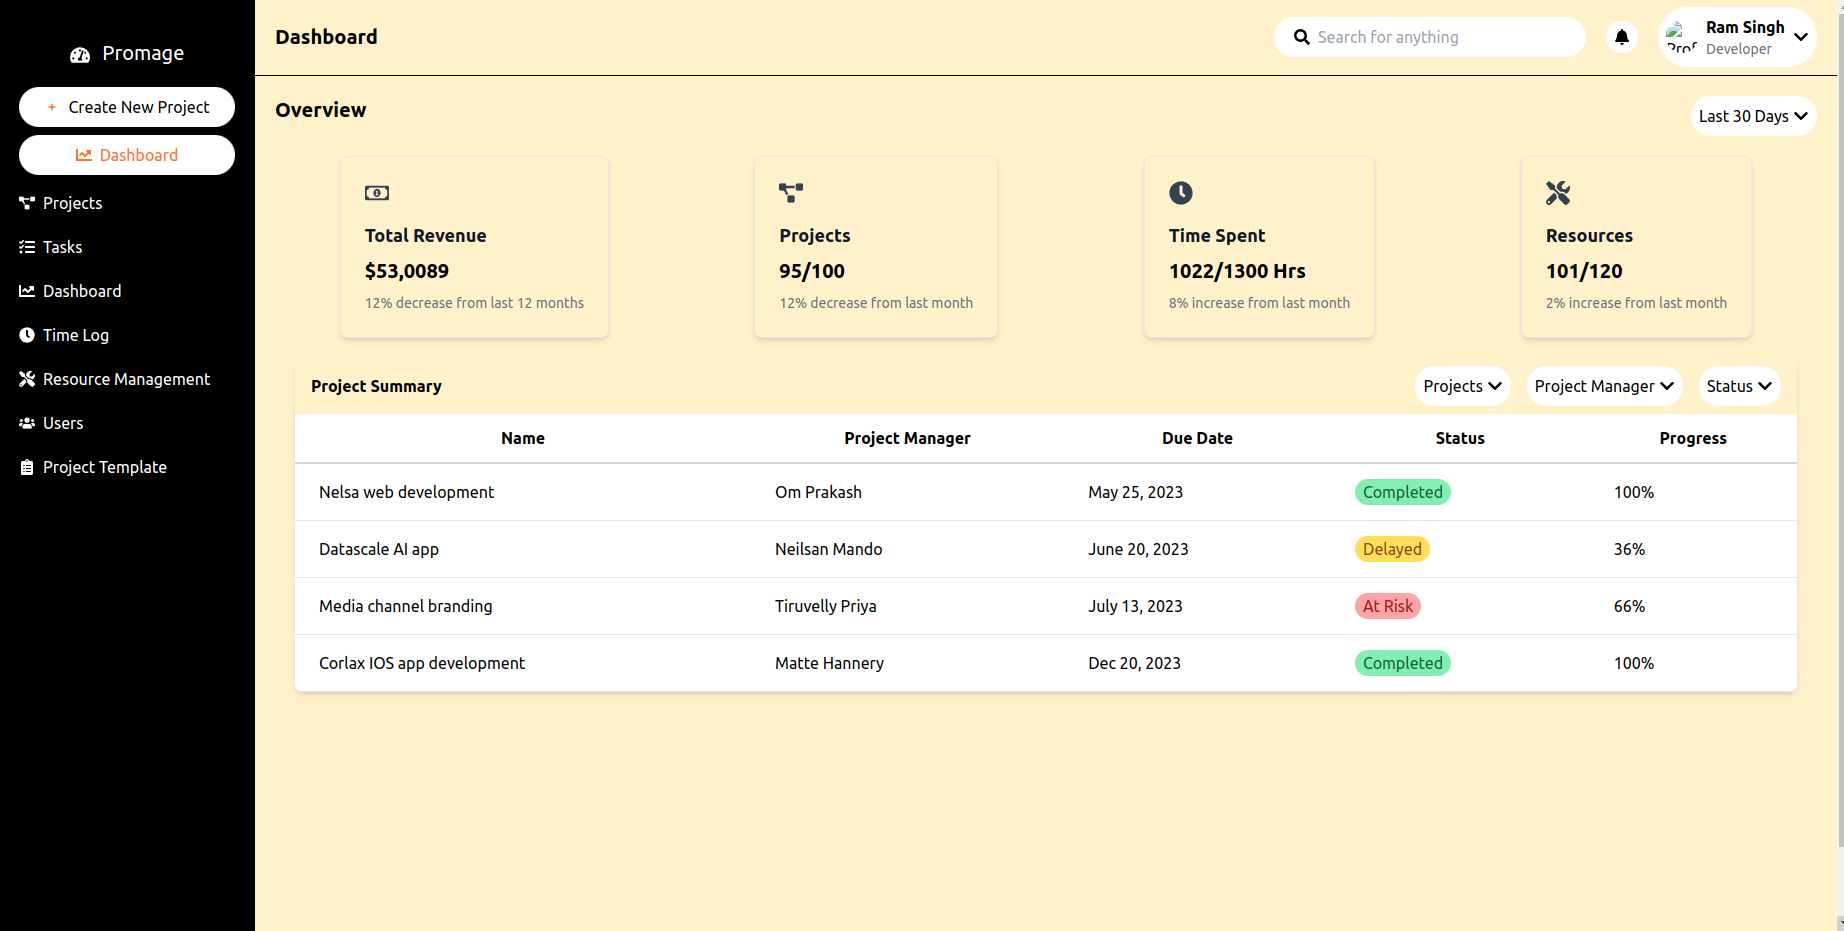
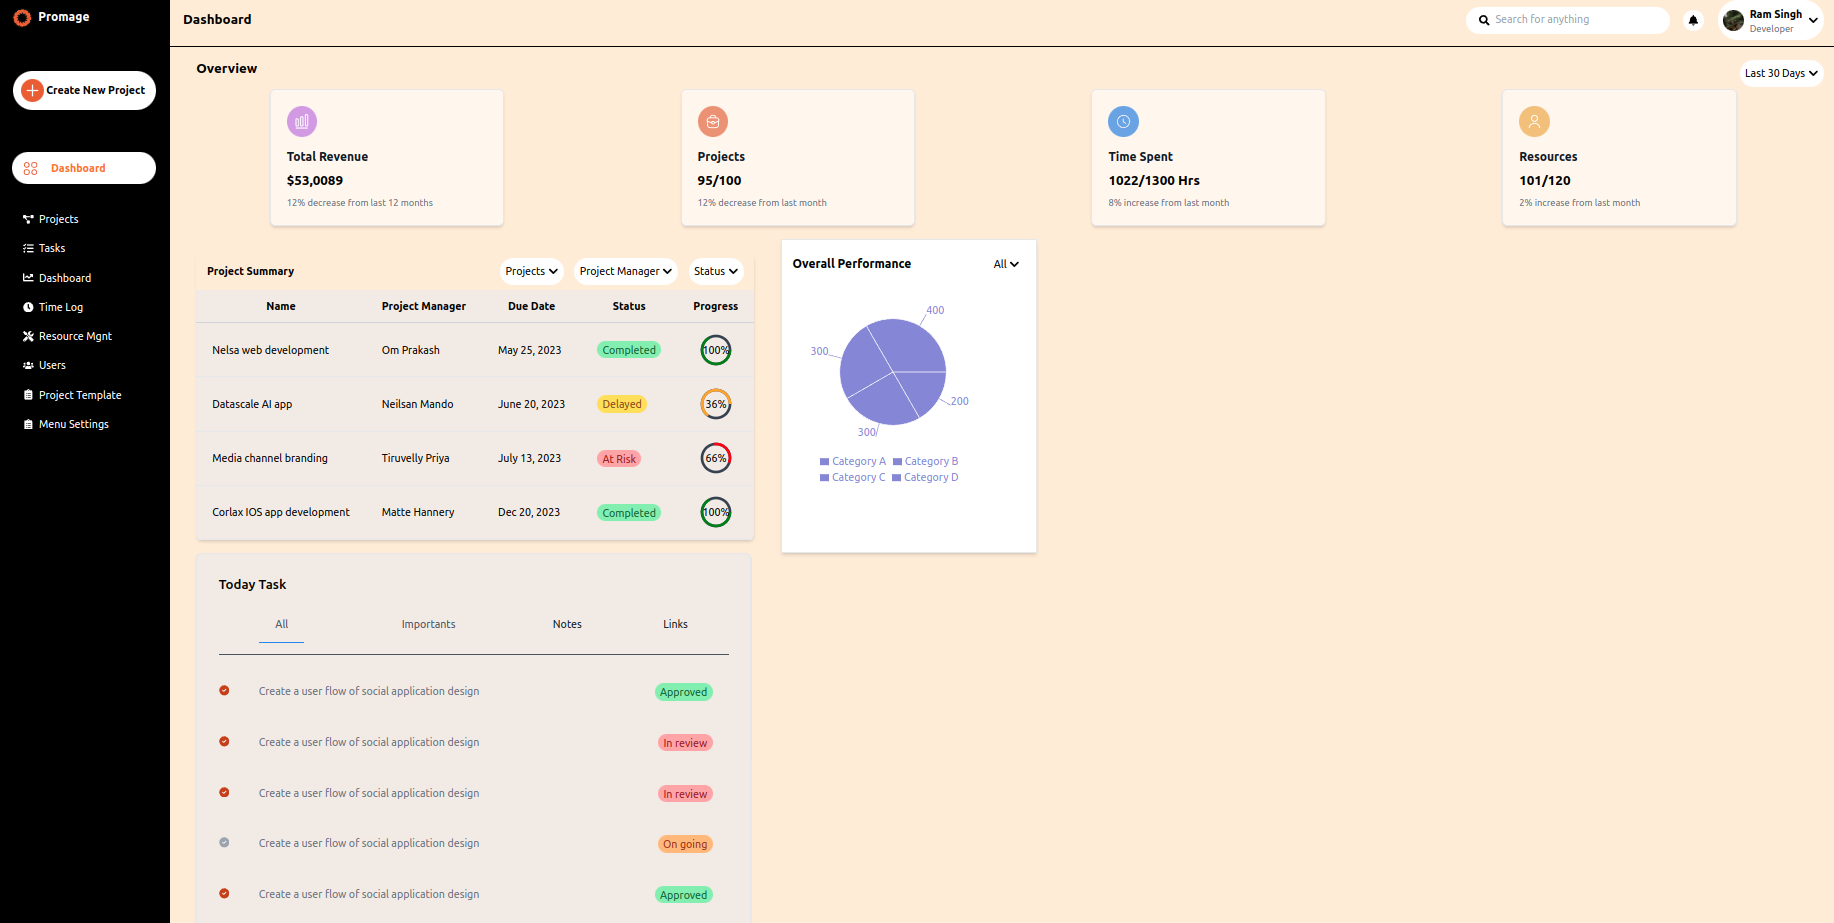
created one more component

diff --git a/src/components/Tasks.jsx b/src/components/Tasks.jsx
@@ -1,0 +1,139 @@
+const Tasks = () => {
+  const makeStyle = (status) => {
+    let backgroundColor, color;
+    switch (status) {
+      case "Approved":
+        backgroundColor = "bg-green-300";
+        color = "text-green-800";
+        break;
+      case "review":
+        backgroundColor = "bg-red-300";
+        color = "text-red-800";
+        break;
+      default:
+        backgroundColor = "bg-orange-300";
+        color = "text-orange-800";
+    }
+    return `${backgroundColor} ${color} rounded-full px-2 py-1`;
+  };
+  return (
+    <div
+      style={{ background: "#F2EAE5", maxWidth: "52rem" }}
+      className="w-full  p-4 bg-white border border-gray-200 rounded-lg shadow sm:p-8 dark:bg-gray-800 dark:border-gray-700 mb-8"
+    >
+      <h5 className="mb-4 text-xl font-medium dark:text-gray-400">
+        Today Task
+      </h5>
+      <div className="flex items-baseline text-gray-900 dark:text-white justify-around">
+        <button className="text-gray-600 py-4 px-6 block hover:text-blue-500 focus:outline-none border-b-2 border-blue-500">
+          All
+        </button>
+        <button className="text-gray-600 py-4 px-6 block hover:text-blue-500 focus:outline-none border-b-2 border-transparent hover:border-blue-500">
+          Importants
+        </button>
+        <div>Notes</div>
+        <div>Links</div>
+      </div>
+      <hr className="h-px my-4 bg-gray-600 border-0 dark:bg-gray-900"></hr>
+      <ul role="list" className="space-y-5 my-7">
+        <li className="flex items-center flex justify-between">
+          <div className="flex gap-8">
+            <svg
+              className="flex-shrink-0 w-4 h-4 text-orange-700 dark:text-orange-500"
+              aria-hidden="true"
+              xmlns="http://www.w3.org/2000/svg"
+              fill="currentColor"
+              viewBox="0 0 20 20"
+            >
+              <path d="M10 .5a9.5 9.5 0 1 0 9.5 9.5A9.51 9.51 0 0 0 10 .5Zm3.707 8.207-4 4a1 1 0 0 1-1.414 0l-2-2a1 1 0 0 1 1.414-1.414L9 10.586l3.293-3.293a1 1 0 0 1 1.414 1.414Z" />
+            </svg>
+            <span className="text-base font-normal leading-tight text-gray-500 dark:text-gray-400 ms-3">
+              Create a user flow of social application design
+            </span>
+          </div>
+          <div className="px-6 py-4 whitespace-nowrap">
+            <span className={makeStyle("Approved")}>Approved</span>
+          </div>
+        </li>
+        <li className="flex items-center flex justify-between">
+          <div className="flex gap-8">
+            <svg
+              className="flex-shrink-0 w-4 h-4 text-orange-700 dark:text-orange-500"
+              aria-hidden="true"
+              xmlns="http://www.w3.org/2000/svg"
+              fill="currentColor"
+              viewBox="0 0 20 20"
+            >
+              <path d="M10 .5a9.5 9.5 0 1 0 9.5 9.5A9.51 9.51 0 0 0 10 .5Zm3.707 8.207-4 4a1 1 0 0 1-1.414 0l-2-2a1 1 0 0 1 1.414-1.414L9 10.586l3.293-3.293a1 1 0 0 1 1.414 1.414Z" />
+            </svg>
+            <span className="text-base font-normal leading-tight text-gray-500 dark:text-gray-400 ms-3">
+              Create a user flow of social application design
+            </span>
+          </div>
+          <div className="px-6 py-4 whitespace-nowrap">
+            <span className={makeStyle("review")}>In review</span>
+          </div>
+        </li>
+        <li className="flex items-center flex justify-between">
+          <div className="flex gap-8">
+            <svg
+              className="flex-shrink-0 w-4 h-4 text-orange-700 dark:text-orange-500"
+              aria-hidden="true"
+              xmlns="http://www.w3.org/2000/svg"
+              fill="currentColor"
+              viewBox="0 0 20 20"
+            >
+              <path d="M10 .5a9.5 9.5 0 1 0 9.5 9.5A9.51 9.51 0 0 0 10 .5Zm3.707 8.207-4 4a1 1 0 0 1-1.414 0l-2-2a1 1 0 0 1 1.414-1.414L9 10.586l3.293-3.293a1 1 0 0 1 1.414 1.414Z" />
+            </svg>
+            <span className="text-base font-normal leading-tight text-gray-500 dark:text-gray-400 ms-3">
+              Create a user flow of social application design
+            </span>
+          </div>
+          <div className="px-6 py-4 whitespace-nowrap">
+            <span className={makeStyle("review")}>In review</span>
+          </div>
+        </li>
+        <li className="flex items-center flex justify-between">
+          <div className="flex gap-8">
+            <svg
+              className="flex-shrink-0 w-4 h-4 text-gray-400 dark:text-gray-500"
+              aria-hidden="true"
+              xmlns="http://www.w3.org/2000/svg"
+              fill="currentColor"
+              viewBox="0 0 20 20"
+            >
+              <path d="M10 .5a9.5 9.5 0 1 0 9.5 9.5A9.51 9.51 0 0 0 10 .5Zm3.707 8.207-4 4a1 1 0 0 1-1.414 0l-2-2a1 1 0 0 1 1.414-1.414L9 10.586l3.293-3.293a1 1 0 0 1 1.414 1.414Z" />
+            </svg>
+            <span className="text-base font-normal leading-tight text-gray-500 ms-3">
+              Create a user flow of social application design
+            </span>
+          </div>
+          <div className="px-6 py-4 whitespace-nowrap">
+            <span className={makeStyle("")}>On going</span>
+          </div>
+        </li>
+        <li className="flex items-center flex justify-between">
+          <div className="flex gap-8">
+            <svg
+              className="flex-shrink-0 w-4 h-4 text-orange-700 dark:text-orange-500"
+              aria-hidden="true"
+              xmlns="http://www.w3.org/2000/svg"
+              fill="currentColor"
+              viewBox="0 0 20 20"
+            >
+              <path d="M10 .5a9.5 9.5 0 1 0 9.5 9.5A9.51 9.51 0 0 0 10 .5Zm3.707 8.207-4 4a1 1 0 0 1-1.414 0l-2-2a1 1 0 0 1 1.414-1.414L9 10.586l3.293-3.293a1 1 0 0 1 1.414 1.414Z" />
+            </svg>
+            <span className="text-base font-normal leading-tight text-gray-500 ms-3">
+              Create a user flow of social application design
+            </span>
+          </div>
+          <div className="px-6 py-4 whitespace-nowrap">
+            <span className={makeStyle("Approved")}>Approved</span>
+          </div>
+        </li>
+      </ul>
+    </div>
+  );
+};
+
+export default Tasks;

diff --git a/src/components/Cards.jsx b/src/components/Cards.jsx
@@ -5,7 +5,10 @@ import Resources from "../assets/resources.svg";
 
 // eslint-disable-next-line react/prop-types
 const Card = ({ icon, heading, mainContent, footer }) => (
-  <div className="max-w-sm p-6 rounded-lg border border-gray-200 shadow-md dark:border-gray-700 bg-orange-50">
+  <div
+    style={{ width: "22rem" }}
+    className="max-w-sm p-6 rounded-lg border border-gray-200 shadow-md dark:border-gray-700 bg-orange-50"
+  >
     <div className="flex justify-start items-center mb-4 text-gray-700">
       {icon}
     </div>
@@ -16,7 +19,10 @@ const Card = ({ icon, heading, mainContent, footer }) => (
 );
 
 const Cards = () => (
-  <div className="flex flex-wrap justify-around gap-4">
+  <div
+    className="flex flex-wrap justify-around gap-1"
+    style={{ width: "-webkit-fill-available" }}
+  >
     <Card
       icon={<img src={TotalRevenue} className="text-2xl" />}
       heading="Total Revenue"

diff --git a/src/components/Dashboard.jsx b/src/components/Dashboard.jsx
@@ -2,11 +2,12 @@ import { FaChevronDown } from "react-icons/fa";
 import Cards from "./Cards";
 import Table from "./Table";
 import Stats from "./Stats";
+import Tasks from "./Tasks";
 
 const Dashboard = () => {
   return (
-    <div className="flex-1 bg-orange-100 p-5 h-screen">
-      <div className="flex justify-between">
+    <div className="flex-1 bg-orange-100 p-5 h-full">
+      <div className="flex justify-between mb-1 ml-5">
         <h2 className="text-black font-bold text-xl">Overview</h2>
         <div className="flex items-center rounded-full bg-white text-black p-2 cursor-pointer">
           Last 30 Days <FaChevronDown className="ml-1" />
@@ -18,6 +19,9 @@ const Dashboard = () => {
           <Table />
           <Stats />
         </div>
+      </div>
+      <div className="flex justify-between mb-1 ml-5">
+        <Tasks />
       </div>
     </div>
   );

diff --git a/src/components/Table.jsx b/src/components/Table.jsx
@@ -61,7 +61,7 @@ const makeStyle = (status) => {
 const TableComponent = () => {
   return (
     <div className="bg-orange-100 p-5">
-      <div className="bg-white rounded-lg shadow-md">
+      <div style={{ background: "#F2EAE5" }} className=" rounded-lg shadow-md">
         <div className="flex justify-between items-center px-4 py-2 bg-orange-100 rounded-t-lg">
           <div className="font-bold">Project Summary</div>
           <div className="flex items-center justify-end space-x-4">

diff --git a/src/components/Sidebar.jsx b/src/components/Sidebar.jsx
@@ -1,8 +1,6 @@
 // components/Sidebar.jsx
 
 import {
-  FaTachometerAlt,
-  FaPlus,
   FaChartLine,
   FaProjectDiagram,
   FaTasks,
@@ -16,7 +14,7 @@ import dashboard from "../assets/dashboard.svg";
 
 const Sidebar = () => {
   return (
-    <div className="bg-black text-white w-64 h-screen p-5">
+    <div className="bg-black text-white w-64 h-full p-5">
       <div className="flex flex-row mb-16">
         <img
           src="public/logo.svg"

diff --git a/README.md b/README.md
@@ -4,6 +4,8 @@ This project is a simple dashboard built using React and Vite. It provides a fas
 
 ![Dashboard Preview](public/dashboard.png)
 
+![Dashboard Preview](public/dashboard1.png)
+
 ## Installation
 
 Before getting started, ensure you have Node.js and npm installed on your machine. Then, follow these steps:
